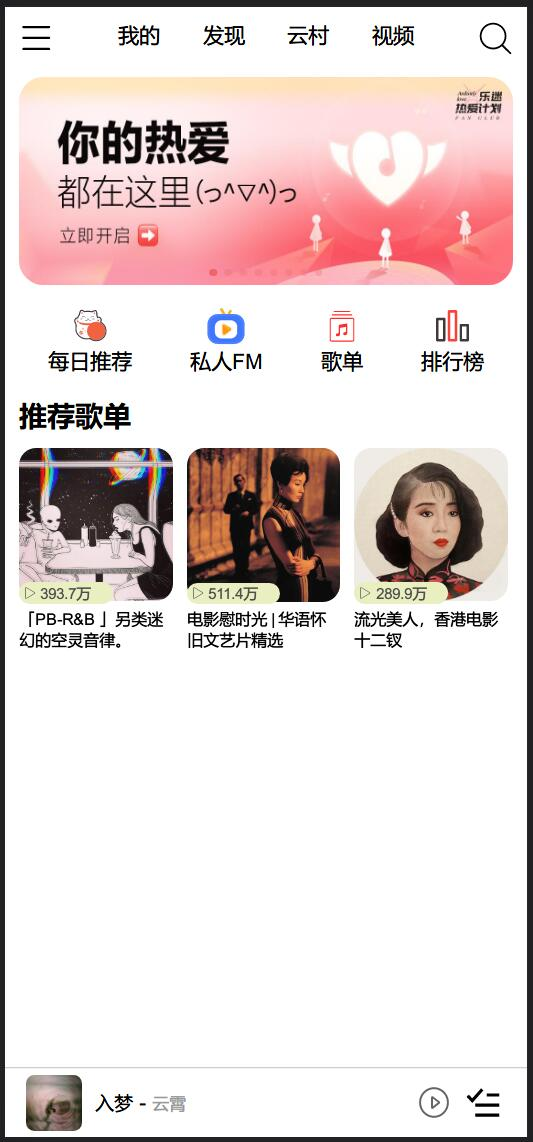
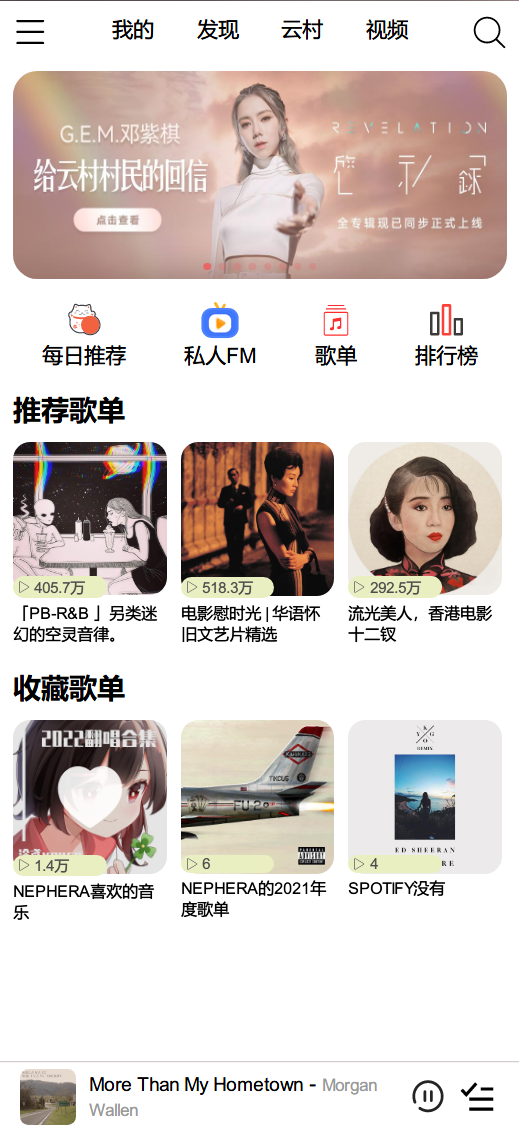
login & userpage & created playlists

diff --git a/src/components/home/my_playlist.vue b/src/components/home/my_playlist.vue
@@ -1,14 +1,14 @@
 <template>
-    <div class="playlist">
+    <div v-if="playlists_info.status" class="playlist">
         <div class="playlist_title">
-            <span class="playlist_title_text">推荐歌单</span>
+            <span class="playlist_title_text">收藏歌单</span>
             <!-- <span class="playlist_title_more">更多</span> -->
         </div>
         <div class="playlist_list">
             <van-swipe :loop="false" :width="133" class="playlist_swipe" :show-indicators="false">
                 <van-swipe-item v-for="playlist in playlists_info.data">
                     <router-link :to="{path:'/playlist',query:{id:playlist.id}}">
-                        <img :src="playlist.picUrl" />
+                        <img :src="playlist.coverImgUrl" />
                         <span class="playlist_count">
                             <svg class="icon" aria-hidden="true">
                                 <use xlink:href="#icon-24gl-play"></use>
@@ -24,18 +24,23 @@
 </template>
 
 <script>
-import { get_playlists } from '@/requests/request.js'
+import { get_myplaylists } from '@/requests/request.js'
+import store from '@/store';
 import { onMounted, reactive } from 'vue'
 export default {
     setup() {
-        const playlists_info = reactive({ data: [''] });
+        const playlists_info = reactive({ data: [''], status: false });
         onMounted(async () => {
-            let res = await get_playlists();
-            playlists_info.data = res.data.result;
+            await store.dispatch('check_login');
+            playlists_info.status = store.state.is_login;
+            // console.log(store.state.userid);
+            let res = await get_myplaylists(store.state.userid);
+            // console.log(res);
+            playlists_info.data = res.data.playlist;
             for (let i = 0; i < playlists_info.data.length; i++) {
                 if (playlists_info.data[i].playCount >= 100000000) {
                     playlists_info.data[i].playCount = (playlists_info.data[i].playCount / 100000000).toFixed(1) + '亿';
-                } else {
+                } else if (playlists_info.data[i].playCount >= 10000) {
                     playlists_info.data[i].playCount = (playlists_info.data[i].playCount / 10000).toFixed(1) + '万';
                 }
             }
@@ -45,8 +50,8 @@ export default {
     }
 }
 </script>
-
-<style lang="less">
+    
+<style lang="less" scoped>
 .playlist {
     padding: 0.2rem;
     padding-top: 0.1rem;

diff --git a/src/components/user/user.vue b/src/components/user/user.vue
@@ -1,0 +1,95 @@
+<template>
+    <div class="user_page">
+        <div class="top_toolbar">
+            <svg class="icon" aria-hidden="true" @click="$router.go(-1)">
+                <use xlink:href="#icon-zuojiantou"></use>
+            </svg>
+        </div>
+        <div v-if="!user_info.loading" class="user">
+            <div class="user_info">
+                <div class="user_info_avatar">
+                    <img :src="user_info.data.profile.avatarUrl" alt="">
+                </div>
+                <div class="user_info_name">
+                    <span>{{user_info.data.profile.nickname}}</span>
+                </div>
+            </div>
+        </div>
+        <div class="logout">
+            <van-button round type="primary" @click="logout_func">退出</van-button>
+        </div>
+    </div>
+
+</template>
+
+<script>
+import { get_user_info, logout } from "@/requests/request";
+import router from "@/router";
+import store from "@/store";
+import { onMounted, reactive } from "vue";
+export default {
+    setup() {
+        const user_info = reactive({ data: [''], loading: true });
+        onMounted(async () => {
+            let res = await get_user_info();
+            user_info.data = res.data;
+            user_info.loading = false;
+        });
+        async function logout_func() {
+            await store.dispatch('logout');
+            router.push('/login');
+        }
+        return { user_info, logout_func };
+    }
+}
+</script>
+
+<style lang="less" scoped>
+.top_toolbar {
+    width: 100%;
+    height: 0.5rem;
+    padding-left: 0.2rem;
+    padding-top: 0.2rem;
+
+}
+
+.user {
+    width: 100%;
+    height: 6rem;
+    margin-top: 2.5rem;
+
+    .user_info {
+        width: 60%;
+        height: 3rem;
+        padding: 0.2rem;
+        margin: 0 auto;
+
+        .user_info_avatar {
+            width: 3rem;
+            height: 3rem;
+            border-radius: 50%;
+            overflow: hidden;
+            margin: 0 auto;
+
+            img {
+                width: 100%;
+                height: 100%;
+            }
+        }
+
+        .user_info_name {
+            width: 100%;
+            height: 1rem;
+            text-align: center;
+            line-height: 1rem;
+            font-size: 0.4rem;
+        }
+    }
+}
+
+.user_page {
+    display: flex;
+    flex-direction: column;
+    align-items: center;
+}
+</style>

diff --git a/src/store/index.js b/src/store/index.js
@@ -1,5 +1,5 @@
 import { createStore } from 'vuex'
-import { login_via_phone } from '@/requests/request';
+import { login_via_phone, check_login_status, logout } from '@/requests/request';
 
 export default createStore({
   state: {
@@ -19,7 +19,10 @@ export default createStore({
     current_progress_change: 1,
     duration_ori: 0,
     is_login: false,
-    show_footer: true
+    show_footer: true,
+    cookie: '',
+    token: '',
+    userid: '',
   },
   getters: {
   },
@@ -115,8 +118,36 @@ export default createStore({
     }
   },
   actions: {
-    login_func: async function (phone, password) {
-      return await login_via_phone(phone, password);
+    login_func: async function (state, data) {
+      let res = await login_via_phone(data.tel, data.password);
+      res = res.data;
+      if (res.code == 200) {
+        this.state.is_login = true;
+        this.state.cookie = res.cookie;
+        this.state.token = res.token;
+        localStorage.setItem('user_cookie', res.cookie);
+        localStorage.setItem('user_token', res.token);
+        this.dispatch('check_login');
+      }
+    },
+    check_login: async function (state) {
+      let data = await check_login_status();
+      data = data.data.data;
+      if (data.code == 200 && data.profile != null) {
+        this.state.is_login = true;
+        this.state.userid = data.profile.userId;
+        // state.cookie = localStorage.getItem('user_cookie');
+        // state.token = localStorage.getItem('user_token');
+      }
+    },
+    logout: async function (state) {
+      let data = await logout();
+      data = data.data;
+      if (data.code == 200) {
+        this.state.is_login = false;
+        localStorage.removeItem('user_cookie');
+        localStorage.removeItem('user_token');
+      }
     }
   },
   modules: {

diff --git a/src/router/index.js b/src/router/index.js
@@ -1,7 +1,6 @@
 import { createRouter, createWebHistory } from 'vue-router'
 import HomeView from '../views/HomeView.vue'
 import $store from '@/store/index.js'
-import store from '@/store/index.js';
 
 const routes = [
   {
@@ -25,18 +24,29 @@ const routes = [
   {
     path: '/login',
     name: 'login',
+    beforeEnter: async (to, from, next) => {
+      await $store.dispatch('check_login');
+      if ($store._state.data.is_login == false) {
+        next();
+      } else {
+        next('/');
+      }
+    },
     component: () => import('../components/user/login.vue')
   },
   {
     path: '/user',
     name: 'user',
-    beforeEnter: (to, from, next) => {
-      if ($store.state.is_login == 'true') {
+    beforeEnter: async (to, from, next) => {
+      await $store.dispatch('check_login');
+      // console.log($store);
+      if ($store._state.data.is_login == true) {
         next();
       } else {
         next('/login');
       }
-    }
+    },
+    component: () => import('../components/user/user.vue')
   }
   // {
   //   path: '/playlist',

diff --git a/src/requests/request.js b/src/requests/request.js
@@ -19,6 +19,13 @@ export function get_playlists() {
     })
 }
 
+export function get_myplaylists(uid) {
+    return service({
+        method: "GET",
+        url: "/user/playlist?uid=" + uid
+    })
+}
+
 export function get_playlist_info(id) {
     return service({
         method: "GET",
@@ -50,6 +57,28 @@ export function get_search_result(keywords, type) {
 export function login_via_phone(phone, password) {
     return service({
         method: "GET",
-        url: "/login/cellphone?phone=" + phone + "&password=" + password
+        url: "/login/cellphone",
+        params: { phone: phone, password: password }
+    })
+}
+
+export function check_login_status() {
+    return service({
+        method: "GET",
+        url: "/login/status"
+    })
+}
+
+export function get_user_info() {
+    return service({
+        method: "GET",
+        url: "/user/account"
+    })
+}
+
+export function logout() {
+    return service({
+        method: "GET",
+        url: "/logout"
     })
 }

diff --git a/src/views/HomeView.vue b/src/views/HomeView.vue
@@ -3,6 +3,7 @@
   <swipe />
   <func_list />
   <playlist />
+  <my_playlist />
 </template>
 
 <script>
@@ -11,11 +12,12 @@ import tool_bar from '@/components/home/tool_bar.vue'
 import swipe from '@/components/home/swipe.vue'
 import func_list from '@/components/home/func_list.vue'
 import playlist from '@/components/home/playlist.vue'
+import my_playlist from '@/components/home/my_playlist.vue'
 
 export default {
   name: 'HomeView',
   components: {
-    tool_bar, swipe, func_list, playlist
+    tool_bar, swipe, func_list, playlist, my_playlist
   }
 }
 </script>

diff --git a/src/components/user/login.vue b/src/components/user/login.vue
@@ -25,13 +25,14 @@
 <script>
 import { ref } from 'vue'
 import _store from '@/store'
+import router from '@/router';
 export default {
     setup() {
         const tel = ref('');
         const password = ref('')
         async function login_func() {
             let res = await _store.dispatch('login_func', { tel: tel.value, password: password.value });
-            console.log(res);
+            router.push('/user');
         }
         return {
             tel,

diff --git a/src/components/playlist/playlist_songs.vue b/src/components/playlist/playlist_songs.vue
@@ -83,7 +83,7 @@ export default {
     width: 100%;
     height: 100%;
     margin-top: 0.3rem;
-    border-radius: 0.6rem;
+    border-radius: 0.35rem;
     background-color: white;
 
     // position: sticky;

diff --git a/README.md b/README.md
@@ -62,6 +62,8 @@ main_search.vue --> 全局搜索（目前实现歌曲/专辑/歌手/用户搜索
 #### /user
 
 login.vue --> 登陆页面（暂时无法登录，code400
+*update : fixed
+user.vue --> 用户页面（可以退出登陆
 
 ### /requests
 
